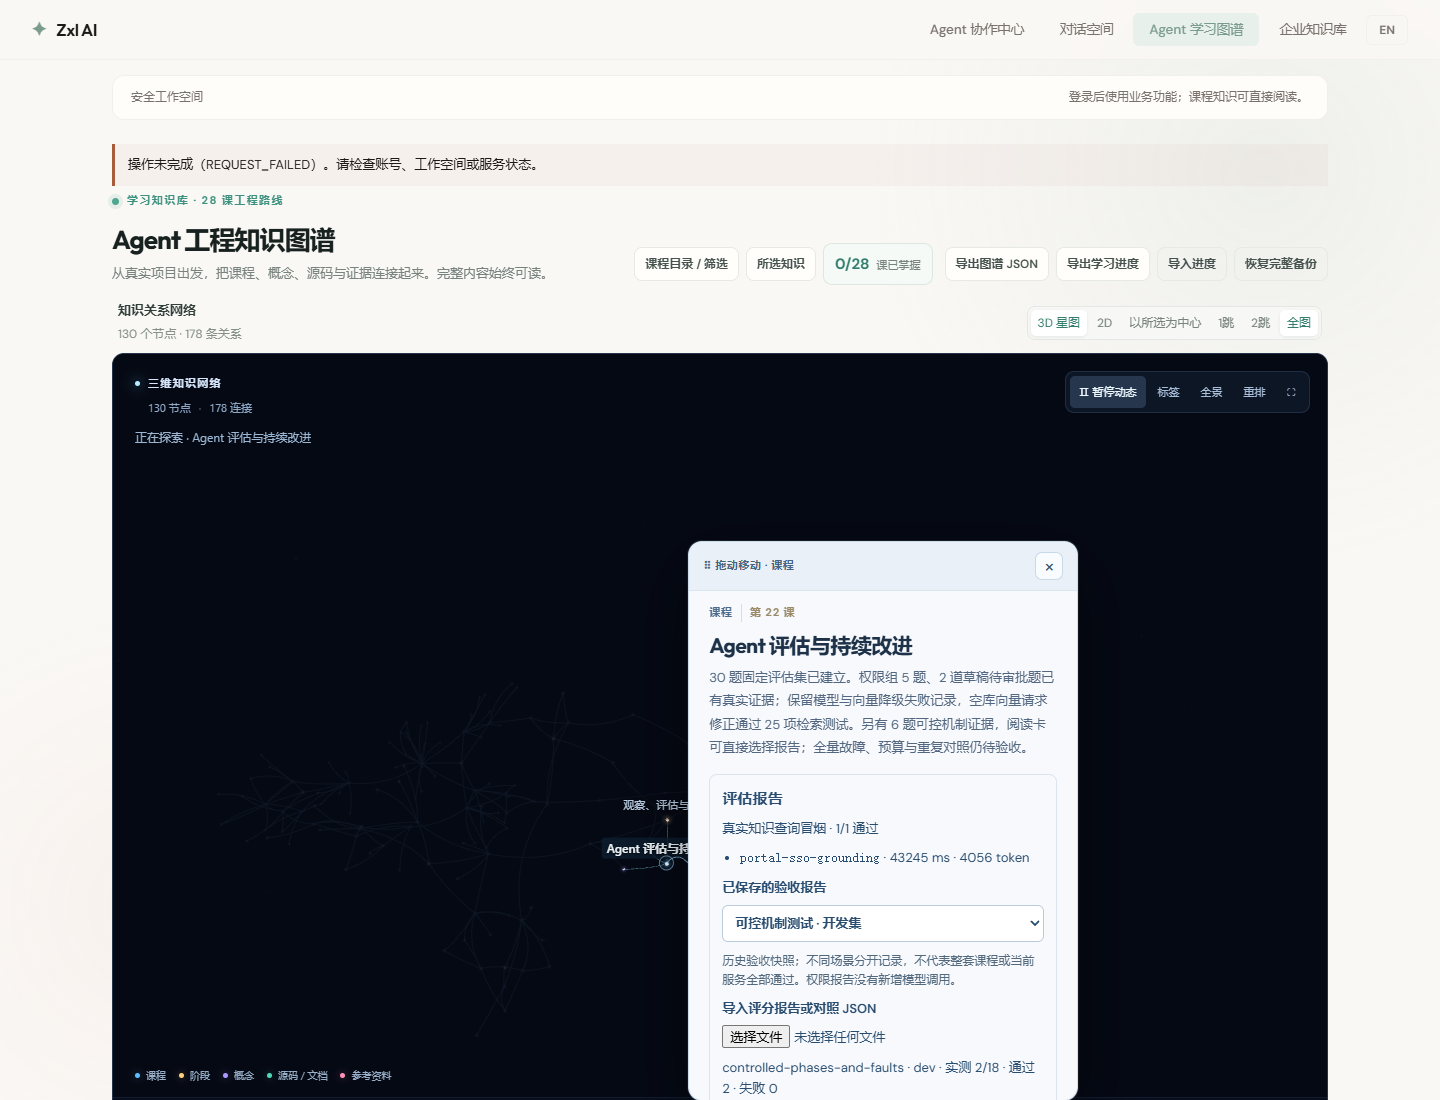
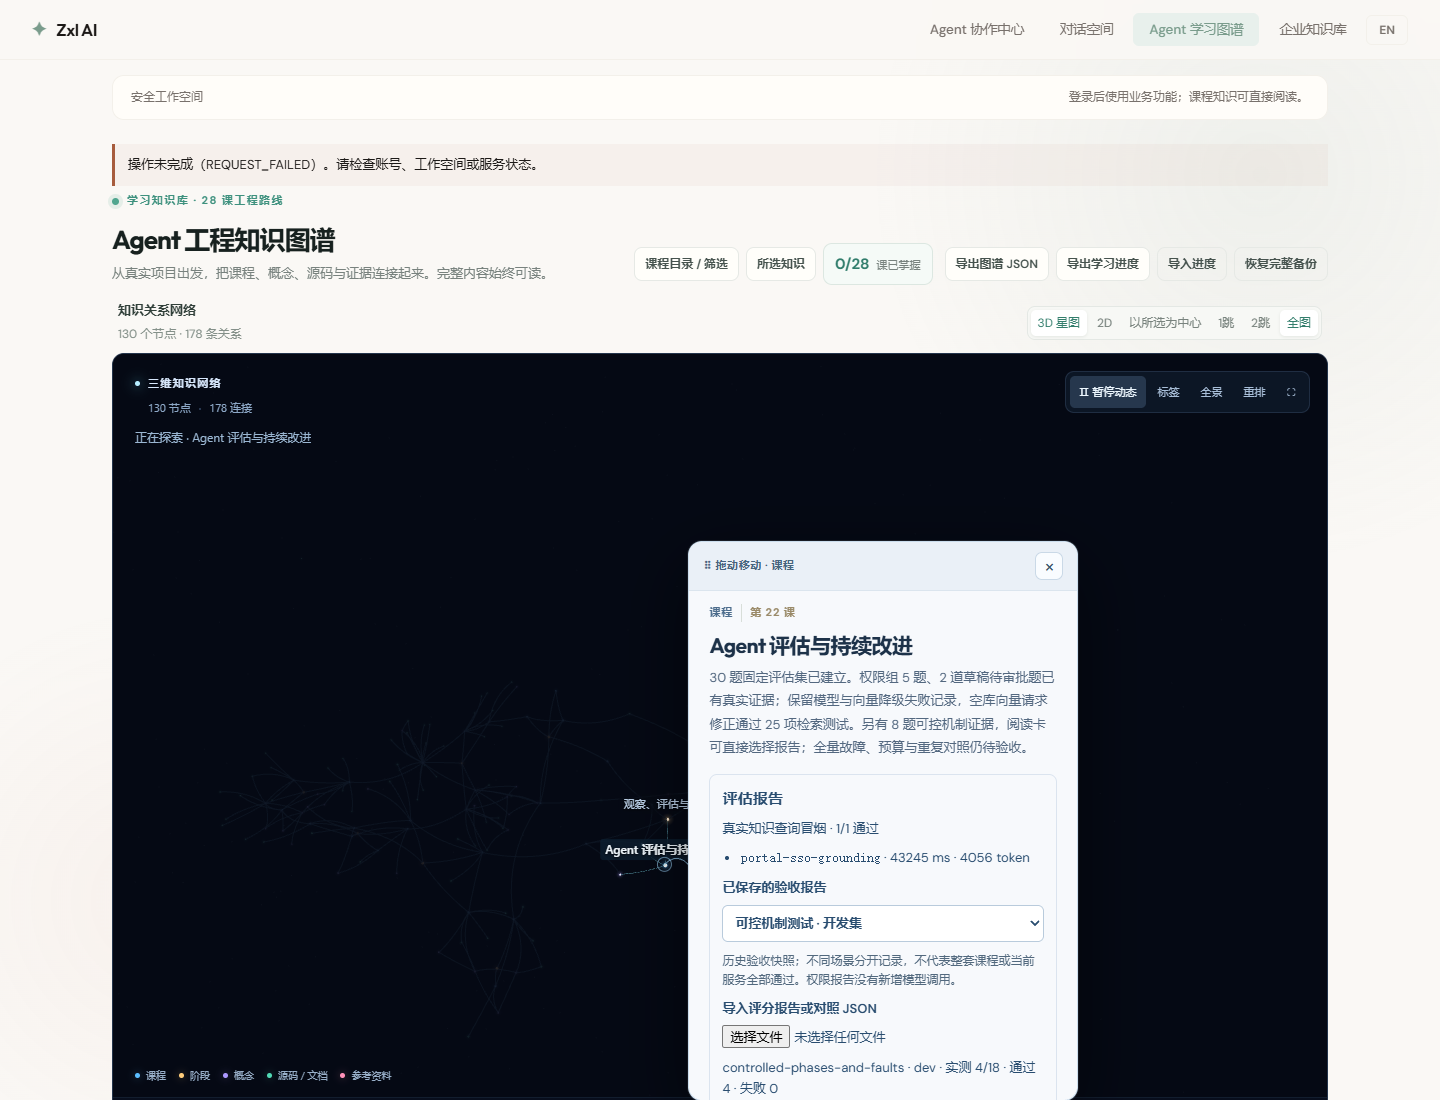
docs(learning): expose current mechanism reports and budget lesson progress

diff --git a/zxl-Ai-agent-fronted/src/components/Lesson22Evaluation.vue b/zxl-Ai-agent-fronted/src/components/Lesson22Evaluation.vue
@@ -6,8 +6,8 @@ import accessHoldout from '../../../docs/images/lesson22-access-batch-2026-11-18
 import approvalHoldout from '../../../docs/images/lesson22-device-batch-2026-11-18/holdout-report.json'
 import keyboardApproval from '../../../docs/images/lesson22-hardware-2026-11-18/report.json'
 import emptyDev from '../../../docs/images/lesson22-empty-batch-2026-11-18/report.json'
-import controlledDev from '../../../docs/images/lesson22-controlled-2026-11-19/dev-report.json'
-import controlledHoldout from '../../../docs/images/lesson22-controlled-2026-11-19/holdout-report.json'
+import controlledDev from '../../../docs/images/lesson22-mechanisms-2026-11-19/dev-report.json'
+import controlledHoldout from '../../../docs/images/lesson22-mechanisms-2026-11-19/holdout-report.json'
 
 defineProps<{ zh: boolean }>()
 

diff --git a/docs/images/lesson22-saved-reports-2026-11-19/README.md b/docs/images/lesson22-saved-reports-2026-11-19/README.md
@@ -7,8 +7,10 @@
 | 选择权限开发集、保留集 | 分别实测 2/18、2/12，通过均为 2；[开发集](access-dev.png) · [保留集](access-holdout.png) |
 | 选择键盘、门禁卡待审批 | 分别实测 1/18、1/12，通过均为 1；[键盘](keyboard-approval.png) · [门禁卡](approval-holdout.png) |
 | 选择空库失败记录 | 实测 2/18、失败 2；[失败仍可见](empty-dev.png) |
-| 选择可控机制开发集、保留集 | 分别实测 2/18、4/12，模型标识为 controlled-java-fixture；[开发集](controlled-dev.png) · [保留集](controlled-holdout.png) |
+| 选择可控机制开发集、保留集 | 分别实测 4/18、4/12，模型标识为 controlled-java-fixture；[开发集](controlled-dev.png) · [保留集](controlled-holdout.png) |
 | 切换英文 | 相同报告保留；[英文](english.png) |
 | 导入无效 JSON，再选择已保存报告 | 先提示格式错误，选择后清除旧错误并显示报告；[恢复](recover-after-invalid.png) |
 
 按钮缺失的页面用例先失败，功能实现后全部操作通过。生产构建通过，保留原有大包提示；图谱回归 37/37。截图时认证后端未启动，页面顶部如实显示 REQUEST_FAILED；这次只验收本地学习与保存报告功能，没有伪造业务接口或模型调用成功。
+
+本批可控入口已更新到 controlled-stage-fixture-v2 的八项机制快照；历史六项报告另行保留，不自动合并跨版本对照。第 23 课入口同步标为基础实现中，个人学习状态保持原样。
